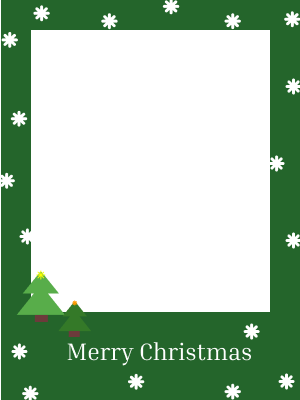
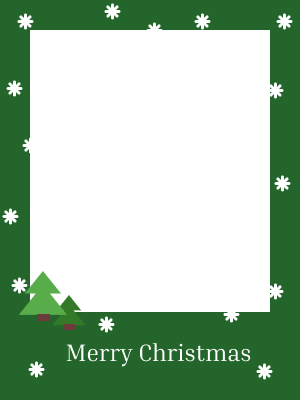
frame 이미지벼경 및 스타일 변경

diff --git a/src/components/Frame.jsx b/src/components/Frame.jsx
@@ -36,7 +36,7 @@ const Img = styled.img `
     height: 400px;
     width: 300px;
     background-image : url(${props => props.imageSrc});
-    background-position: center;
+    background-position: top;
     background-repeat: no-repeat;
-    background-size: contain;
+    background-size: cover;
 `;

diff --git a/src/App.js b/src/App.js
@@ -2,7 +2,6 @@ import React from "react";
 import "./App.css"
 import styled from "styled-components";
 import Polaroid from "./components/Polaroid.jsx"
-import Body from './components/Body.jsx';
 
 const Container = styled.div`
   display: flex;
